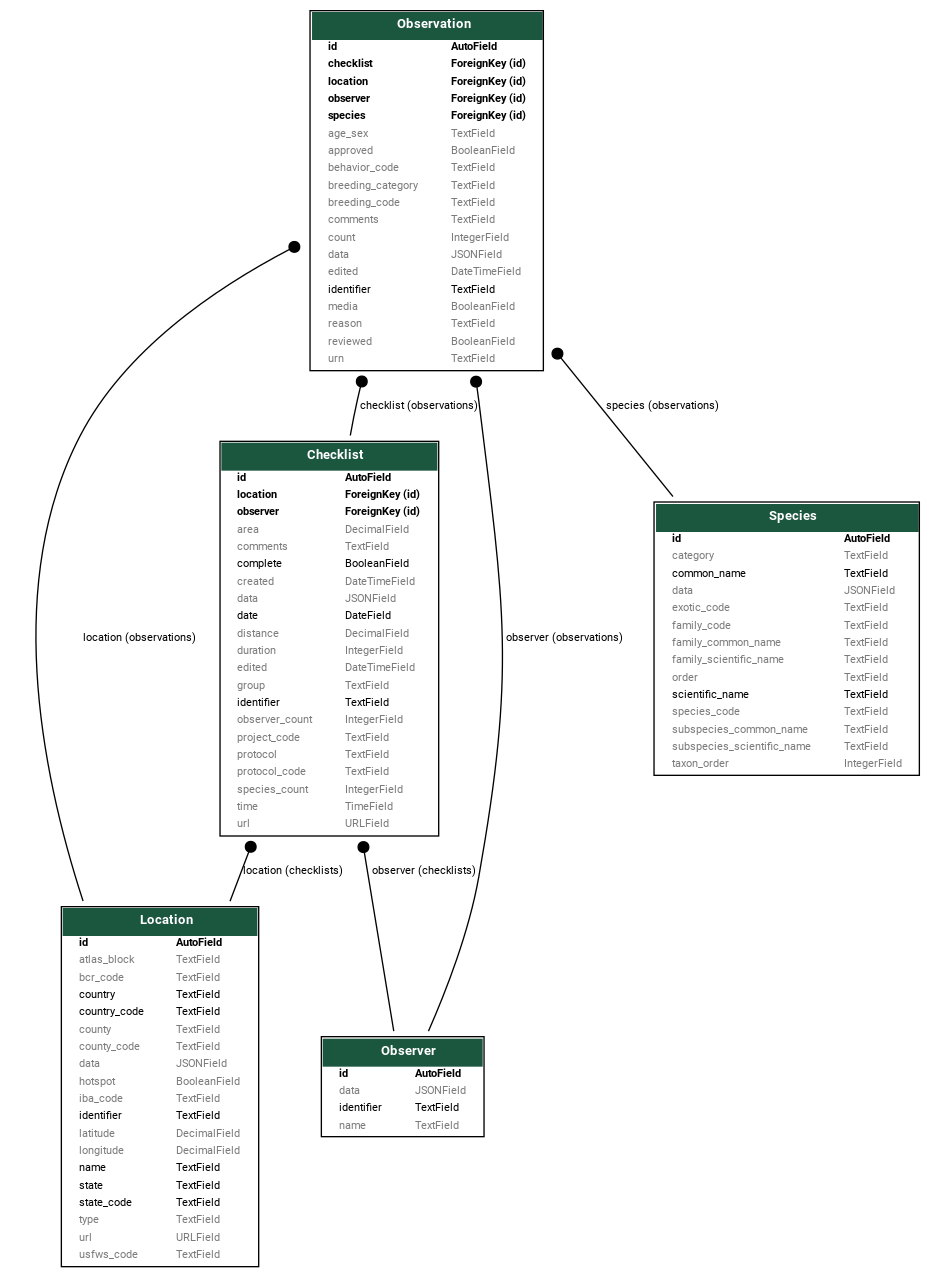
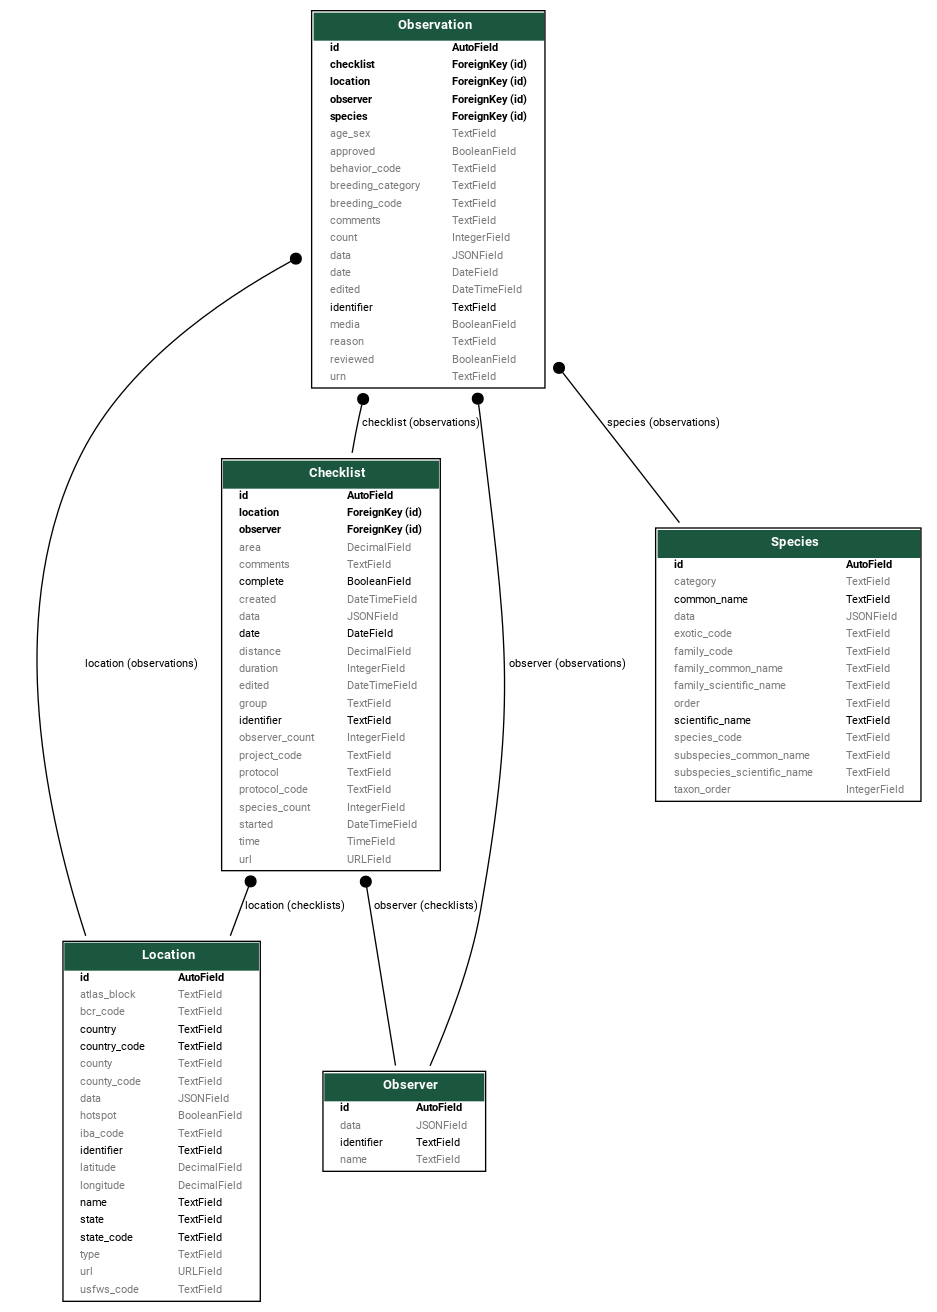
feat: Add date to Observation to simplify queries

diff --git a/src/ebird/checklists/migrations/0002_observation_date.py b/src/ebird/checklists/migrations/0002_observation_date.py
@@ -1,0 +1,24 @@
+# Generated by Django 5.1.7 on 2025-03-20 16:48
+
+from django.db import migrations, models
+
+
+class Migration(migrations.Migration):
+
+    dependencies = [
+        ("checklists", "0001_initial"),
+    ]
+
+    operations = [
+        migrations.AddField(
+            model_name="observation",
+            name="date",
+            field=models.DateField(
+                blank=True,
+                db_index=True,
+                help_text="The date the observation was made.",
+                null=True,
+                verbose_name="date",
+            ),
+        ),
+    ]

diff --git a/src/ebird/checklists/migrations/0003_set_observation_date.py b/src/ebird/checklists/migrations/0003_set_observation_date.py
@@ -1,0 +1,21 @@
+# Generated by Django 5.1.7 on 2025-03-20 16:50
+
+from django.db import migrations
+
+
+def set_observation_date(apps, schema_editor):
+    Observation = apps.get_model("checklists", "Observation")
+    for observation in Observation.objects.all().select_related('checklist'):
+        observation.date = observation.checklist.date
+        observation.save()
+
+
+class Migration(migrations.Migration):
+
+    dependencies = [
+        ("checklists", "0002_observation_date"),
+    ]
+
+    operations = [
+        migrations.RunPython(set_observation_date),
+    ]

diff --git a/src/ebird/checklists/migrations/0004_alter_observation_date.py b/src/ebird/checklists/migrations/0004_alter_observation_date.py
@@ -1,0 +1,22 @@
+# Generated by Django 5.1.7 on 2025-03-20 17:07
+
+from django.db import migrations, models
+
+
+class Migration(migrations.Migration):
+
+    dependencies = [
+        ("checklists", "0003_set_observation_date"),
+    ]
+
+    operations = [
+        migrations.AlterField(
+            model_name="observation",
+            name="date",
+            field=models.DateField(
+                db_index=True,
+                help_text="The date the observation was made.",
+                verbose_name="date",
+            ),
+        ),
+    ]

diff --git a/src/ebird/checklists/models/observation.py b/src/ebird/checklists/models/observation.py
@@ -124,6 +124,12 @@ class Observation(models.Model):
         help_text=_("The location where the observation was made."),
     )
 
+    date = models.DateField(
+        db_index=True,
+        verbose_name=_("date"),
+        help_text=_("The date the observation was made."),
+    )
+
     count = models.IntegerField(
         blank=True,
         null=True,

diff --git a/src/ebird/checklists/loaders/dataset.py b/src/ebird/checklists/loaders/dataset.py
@@ -105,6 +105,7 @@ class BasicDatasetLoader:
             "location": checklist.location,
             "observer": checklist.observer,
             "species": species,
+            "date": checklist.date,
             "count": None,
             "breeding_code": data["BREEDING CODE"],
             "breeding_category": data["BREEDING CATEGORY"],

diff --git a/src/ebird/checklists/loaders/mydata.py b/src/ebird/checklists/loaders/mydata.py
@@ -102,6 +102,7 @@ class MyDataLoader:
             "checklist": checklist,
             "location": checklist.location,
             "observer": checklist.observer,
+            "date": checklist.date,
             "count": None,
             "breeding_code": data["Breeding Code"] or "",
             "breeding_category": "",

diff --git a/src/ebird/checklists/loaders/api.py b/src/ebird/checklists/loaders/api.py
@@ -170,6 +170,7 @@ class APILoader:
             "location": checklist.location,
             "observer": checklist.observer,
             "species": self.get_species(data),
+            "date": checklist.date,
             "count": None,
             "breeding_code": "",
             "breeding_category": "",

diff --git a/CHANGELOG.rst b/CHANGELOG.rst
@@ -6,6 +6,7 @@ and this project adheres to `Semantic Versioning <https://semver.org/spec/v2.0.0
 
 Latest
 ------
+* Add date to Observation to simplify queries.
 
 1.0.3 (2025-03-20)
 ------------------
